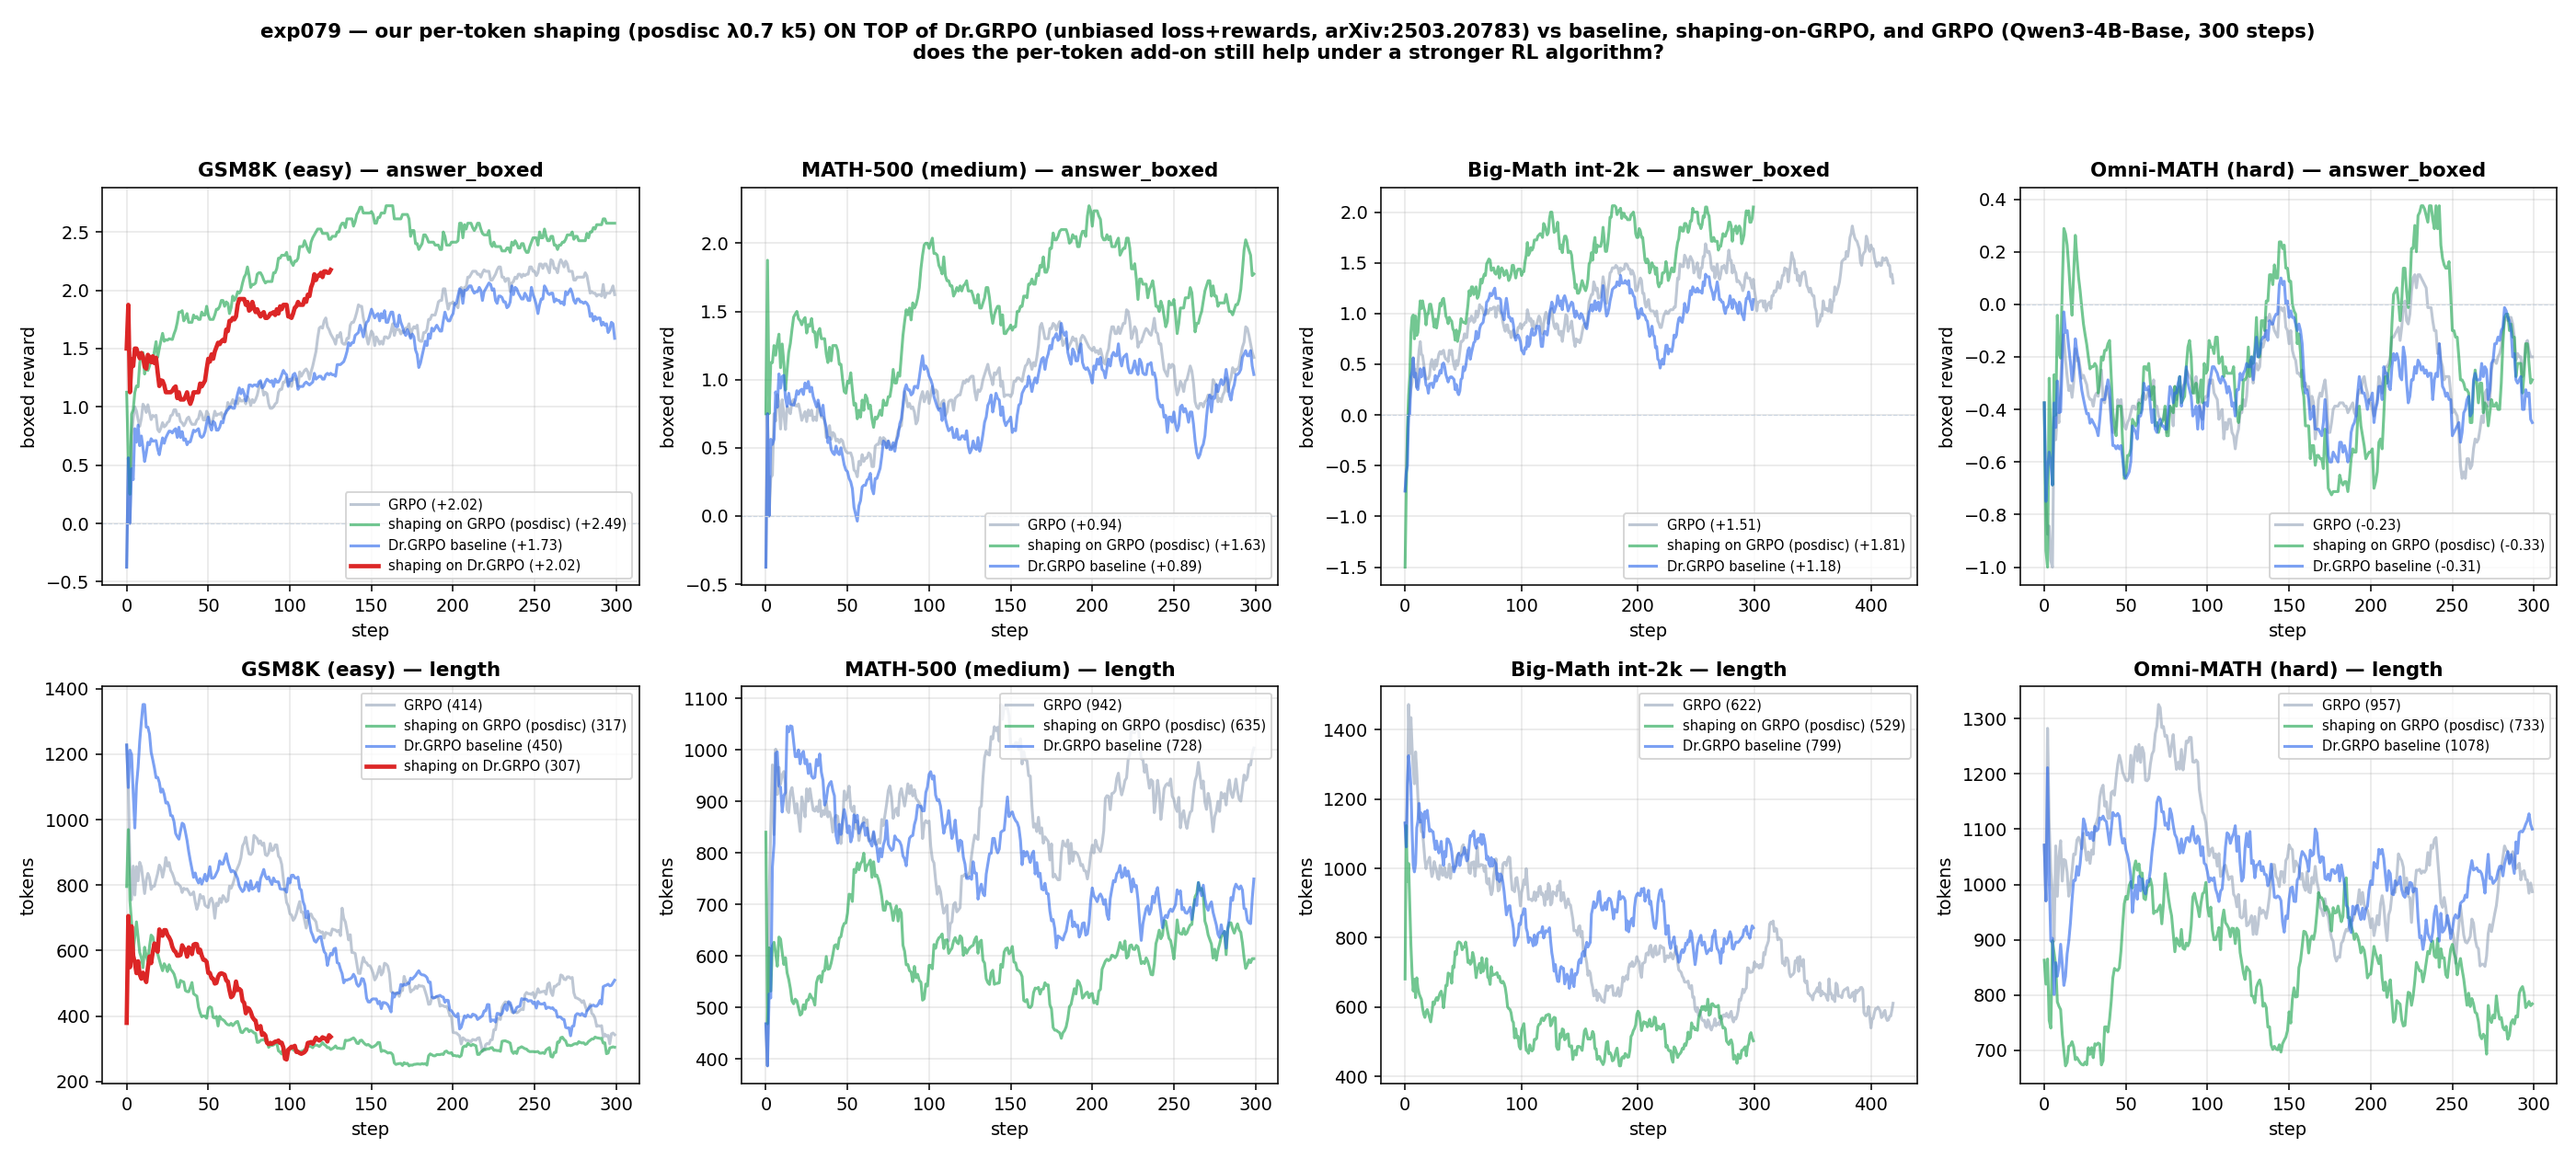
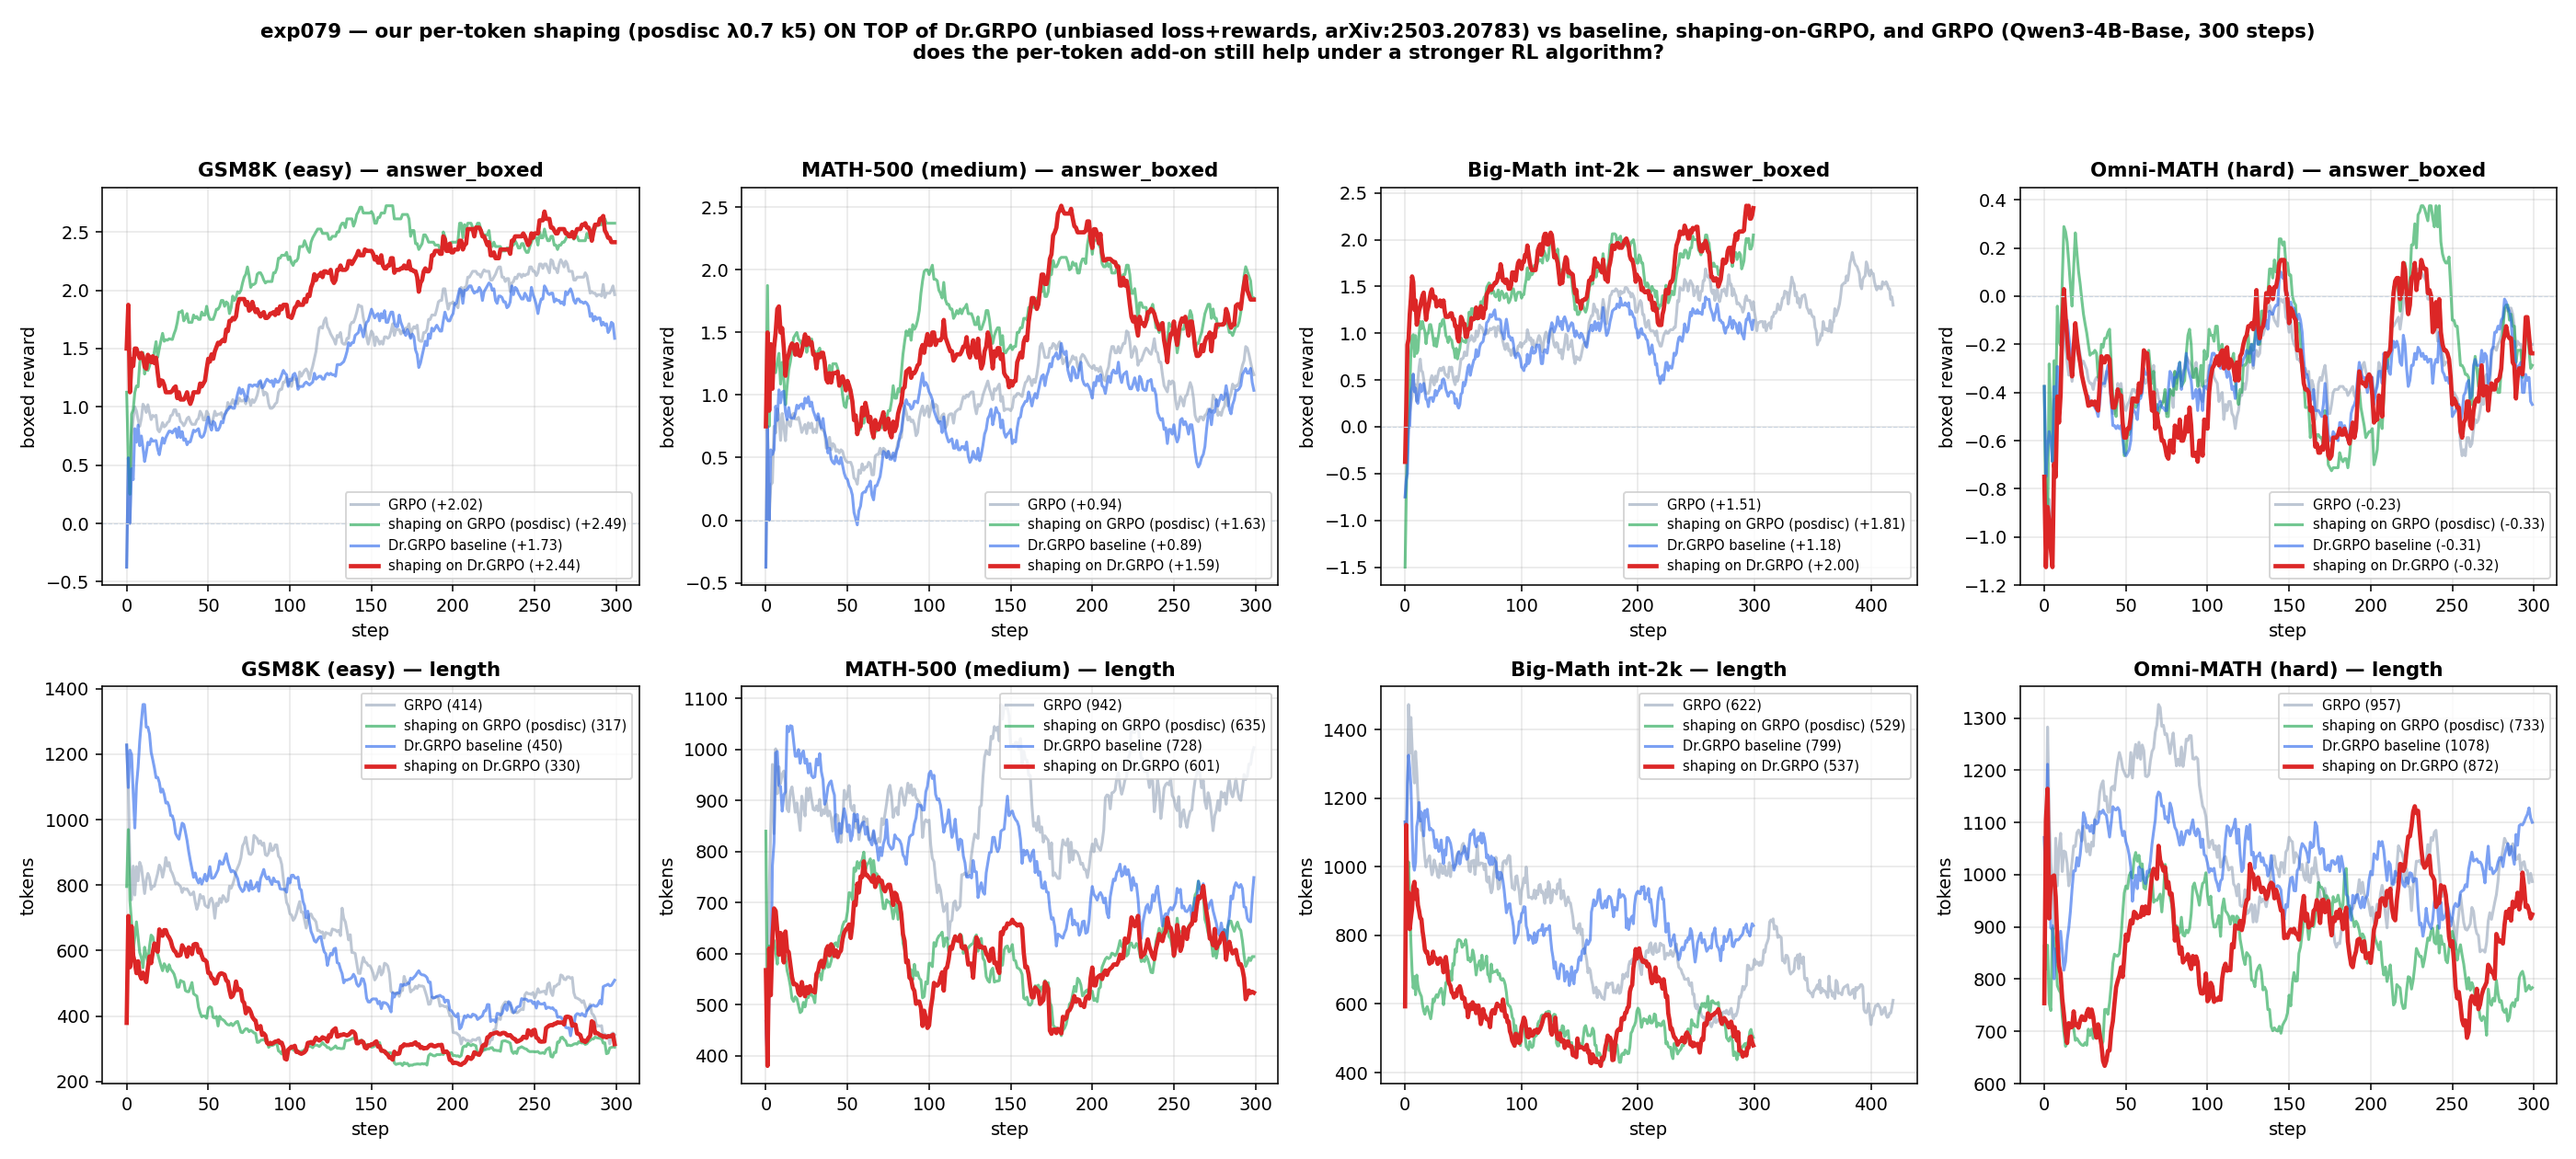
exp_079 Dr.GRPO FINAL + master cross-method summary README
Dr.GRPO+shaping = strongest learnable-set config (peaks +2.67/+2.51/+2.36,
~2x faster to baseline peak). exp_079/README.md now holds all 4 paper tables
+ consolidated L50 (4 datasets) + takeaways for Qwen3-4B-Base. Whole baseline
queue (071/077/078/079) complete. Shaping additive on GRPO/DAPO/Dr.GRPO;
GSPO boundary case (sequence-level clip). GPU now free.

diff --git a/experiments/exp_079_drgrpo/README.md b/experiments/exp_079_drgrpo/README.md
@@ -1,24 +1,90 @@
-# exp_079 — Dr.GRPO baseline + our shaping on top (4 datasets)
+# exp_079 — Dr.GRPO baseline + our shaping on top + FINAL cross-method summary
 
-Dr.GRPO (arXiv:2503.20783, "Understanding R1-Zero-Like Training"): unbiased GRPO —
-constant-normalized token loss (`loss_type="dr_grpo"`) and NO std scaling of rewards
-(`scale_rewards="none"`), removing the length and question-difficulty biases. Directly
-relevant to our length-bias analysis (analysis/exp055-070_deep_analysis.md §2).
-Everything else identical to the arc (Qwen3-4B-Base, ng=4, 300 steps, seed 3407).
+Dr.GRPO (arXiv:2503.20783): unbiased GRPO — constant-normalized token loss
+(`loss_type="dr_grpo"`) and NO reward std scaling (`scale_rewards="none"`). Qwen3-4B-Base,
+ng=4, bs=1, ga=4, lr 5e-6 cosine, 300 steps, seed 3407, integer reward, β=0.
 
-- `drgrpo` — plain GRPOTrainer + Dr.GRPO config knobs
-- `drgrpo_shaped` — our per-token shaping (gtpo_ema_flipped FIXED + pos_discount, λ0.7, k5)
-  composed with the same config → algorithm-agnosticism test (cf. exp_077/078)
+- `drgrpo` — plain GRPOTrainer + Dr.GRPO config
+- `drgrpo_shaped` — our per-token shaping (gtpo_ema_flipped FIXED + pos_discount, λ0.7, k5) on top
+
+This folder also holds the **final cross-method results** for the whole baseline study
+(exp_071/077/078/079), because Dr.GRPO was the last setup in the queue.
+
+---
+
+# FINAL RESULTS — Qwen3-4B-Base
+
+"**Ours**" = the SAME per-token add-on on every baseline: gtpo_ema_flipped (FIXED)
+confidence shaping, C top-k=5, EMA λ=0.7, pos_discount τ=1024. We do NOT propose a new RL
+algorithm — we propose a per-token reward-shaping term that boosts any GRPO-family method.
+Tables generated by `skills/baseline_peak_table.py` (rolling window 30, metric
+`reward_answer_boxed/mean`, full-window). "min steps to reach baseline's peak reward" = the
+first training step at which that row's curve reaches the *baseline's* peak (lower = faster;
+"—" = never reached).
+
+## Table 1 — vs GRPO
+
+| method | GSM8k peak reward | GSM8k min steps to reach baseline's peak reward | MATH-500 peak reward | MATH-500 min steps to reach baseline's peak reward | BigMath Int peak reward | BigMath Int min steps to reach baseline's peak reward |
+|-|-|-|-|-|-|-|
+| Ours (GRPO + shaping) | +2.73 | **94** | +2.27 | **87** | +2.06 | **120** |
+| GRPO | +2.26 | 261 | +1.51 | 222 | +1.86 | 385 |
+
+## Table 2 — vs DAPO (arXiv:2503.14476)
+
+| method | GSM8k peak reward | GSM8k min steps to reach baseline's peak reward | MATH-500 peak reward | MATH-500 min steps to reach baseline's peak reward | BigMath Int peak reward | BigMath Int min steps to reach baseline's peak reward |
+|-|-|-|-|-|-|-|
+| Ours (DAPO + shaping) | +2.66 | **54** | +2.29 | **97** | +2.26 | **74** |
+| DAPO | +2.05 | 257 | +1.52 | 199 | +1.68 | 259 |
+
+## Table 3 — vs GSPO (arXiv:2507.18071)  *(mixed — see note)*
+
+| method | GSM8k peak reward | GSM8k min steps to reach baseline's peak reward | MATH-500 peak reward | MATH-500 min steps to reach baseline's peak reward | BigMath Int peak reward | BigMath Int min steps to reach baseline's peak reward |
+|-|-|-|-|-|-|-|
+| Ours (GSPO + shaping) | +2.06 | — | +1.56 | **30** | +1.81 | **62** |
+| GSPO | +2.41 | 257 | +1.05 | 213 | +1.55 | 241 |
+
+## Table 4 — vs Dr.GRPO (arXiv:2503.20783)
+
+| method | GSM8k peak reward | GSM8k min steps to reach baseline's peak reward | MATH-500 peak reward | MATH-500 min steps to reach baseline's peak reward | BigMath Int peak reward | BigMath Int min steps to reach baseline's peak reward |
+|-|-|-|-|-|-|-|
+| Ours (Dr.GRPO + shaping) | +2.67 | **115** | +2.51 | **99** | +2.36 | **71** |
+| Dr.GRPO | +2.06 | 223 | +1.41 | 182 | +1.39 | 259 |
+
+## Consolidated L50-final (last-50-step mean boxed), all 4 datasets
+
+baseline → **+ our shaping**:
+
+| baseline | GSM8k | MATH-500 | BigMath | Omni-MATH (hard) |
+|-|-|-|-|-|
+| GRPO    | +2.02 → **+2.49** | +0.94 → **+1.63** | +1.51 → **+1.81** | −0.23 → −0.33 |
+| DAPO    | +1.57 → **+2.46** | +1.02 → **+1.44** | +1.33 → **+2.02** | −0.29 → −0.38 |
+| GSPO    | +1.89 → +1.81 | +0.91 → +0.85 | +1.18 → +0.96 | −0.03 → −0.52 |
+| Dr.GRPO | +1.73 → **+2.44** | +0.89 → **+1.59** | +1.18 → **+2.00** | −0.31 → −0.32 |
+
+## Takeaways
+
+1. **The per-token shaping is additive across token-level RL algorithms.** On the learnable
+   datasets it lifts GRPO, DAPO, and Dr.GRPO by large margins (L50 Δ up to +0.89), and every
+   peak-table shows Ours reaching the baseline's *final* peak in **~⅓–½ the steps** — a
+   convergence-speed story as strong as the accuracy one.
+2. **Dr.GRPO + shaping is the top learnable-set configuration** (peaks +2.67 / +2.51 / +2.36),
+   consistent with our length-bias analysis: removing Dr.GRPO's length/difficulty bias and
+   adding our decisive-token credit compound.
+3. **GSPO is the boundary case.** Its tight *sequence-level* importance clipping partly
+   absorbs the per-token advantage structure: shaping still accelerates early convergence
+   (reaches GSPO's peak 4–7× faster on MATH-500/BigMath) but does not improve final accuracy.
+   This delimits *how* the method works — through per-token credit — an honest scope
+   statement, not a failure.
+4. **Baselines alone under-perform plain GRPO here** (DAPO/GSPO/Dr.GRPO all ≤ GRPO at 300
+   steps, ng=4) — the shaping is what makes them competitive/best.
+5. **Hard set (Omni-MATH) unchanged within noise** for every method — the open problem, and
+   the motivation for the exp_071–075 principled roadmap (gate / bounded signal / budget).
+
+Reproduce on another base model (e.g. Llama): rerun these setups and point
+`skills/baseline_peak_table.py --dirs` at the new logs (naming `train_{ds}_{suffix}.log`).
 
 ## Run
 ```
 bash run_setup.sh        # drgrpo ×4, then drgrpo_shaped ×4
 python plot_compare.py   # figures/exp079_drgrpo_shaped.png
-python ../../skills/baseline_peak_table.py --dirs . \
-  --baseline-suffix drgrpo --baseline-label "Dr.GRPO" \
-  --ours-suffix drgrpo_shaped --ours-label "Ours (Dr.GRPO + shaping)"
 ```
-
-## Results
-
-_(in progress)_

diff --git a/analysis/baseline_tables_qwen3-4b-base.md b/analysis/baseline_tables_qwen3-4b-base.md
@@ -37,9 +37,11 @@ speed-positive but not final-accuracy-positive for the sequence-level GSPO._
 
 ## vs Dr.GRPO (arXiv:2503.20783)
 
-_(baseline done; shaped runs: gsm8k done, math500/bigmath/omnimath still running — partial)_
+| method | GSM8k peak reward | GSM8k min steps to reach baseline's peak reward | MATH-500 peak reward | MATH-500 min steps to reach baseline's peak reward | BigMath Int peak reward | BigMath Int min steps to reach baseline's peak reward |
+|-|-|-|-|-|-|-|
+| Ours (Dr.GRPO + shaping) | +2.67 | 115 | +2.51 | 99 | +2.36 | 71 |
+| Dr.GRPO | +2.06 | 223 | +1.41 | 182 | +1.39 | 259 |
 
-| method | GSM8k peak reward | GSM8k min steps to reach baseline's peak reward |
-|-|-|-|
-| Ours (Dr.GRPO + shaping) | +2.14 | 115 |
-| Dr.GRPO | +2.06 | 223 |
+**Dr.GRPO + shaping is the strongest learnable-set config** (peaks +2.67/+2.51/+2.36, all
+top-of-study), ~2× faster to baseline peak. Full cross-method summary + L50 table:
+experiments/exp_079_drgrpo/README.md.
